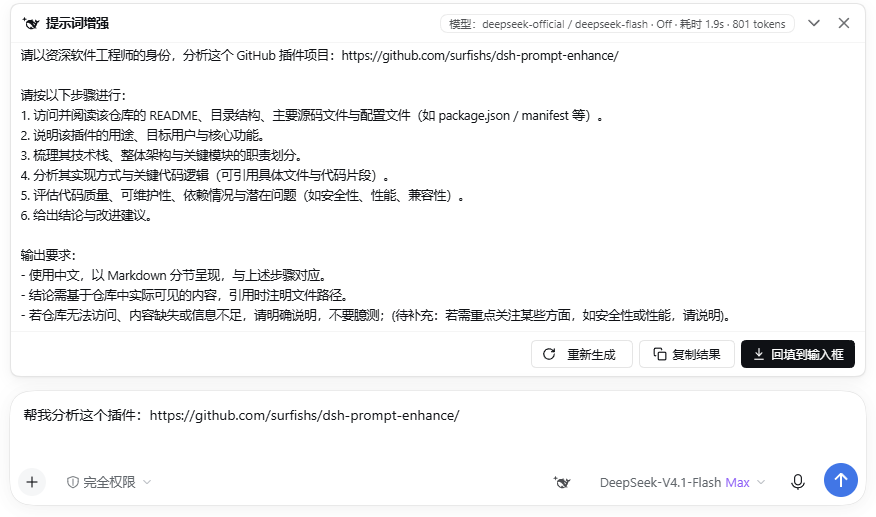
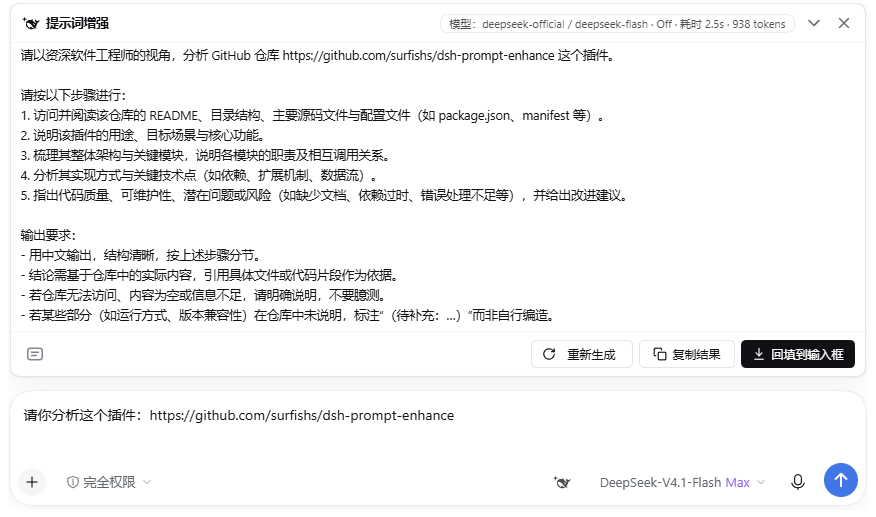
docs: refresh the README screenshots
Replace the example screenshots with the current card, cropped to the same
876px canvas and margins as before, and drop the stale width suffix from the
English file name.

diff --git a/README.en.md b/README.en.md
@@ -8,7 +8,7 @@
 
 [简体中文](./README.md) | English
 
-![Prompt Enhance: the docked result card above the composer](./docs/images/panel-en-915.png)
+![Prompt Enhance: the docked result card above the composer](./docs/images/panel-en.png)
 
 ---
 
